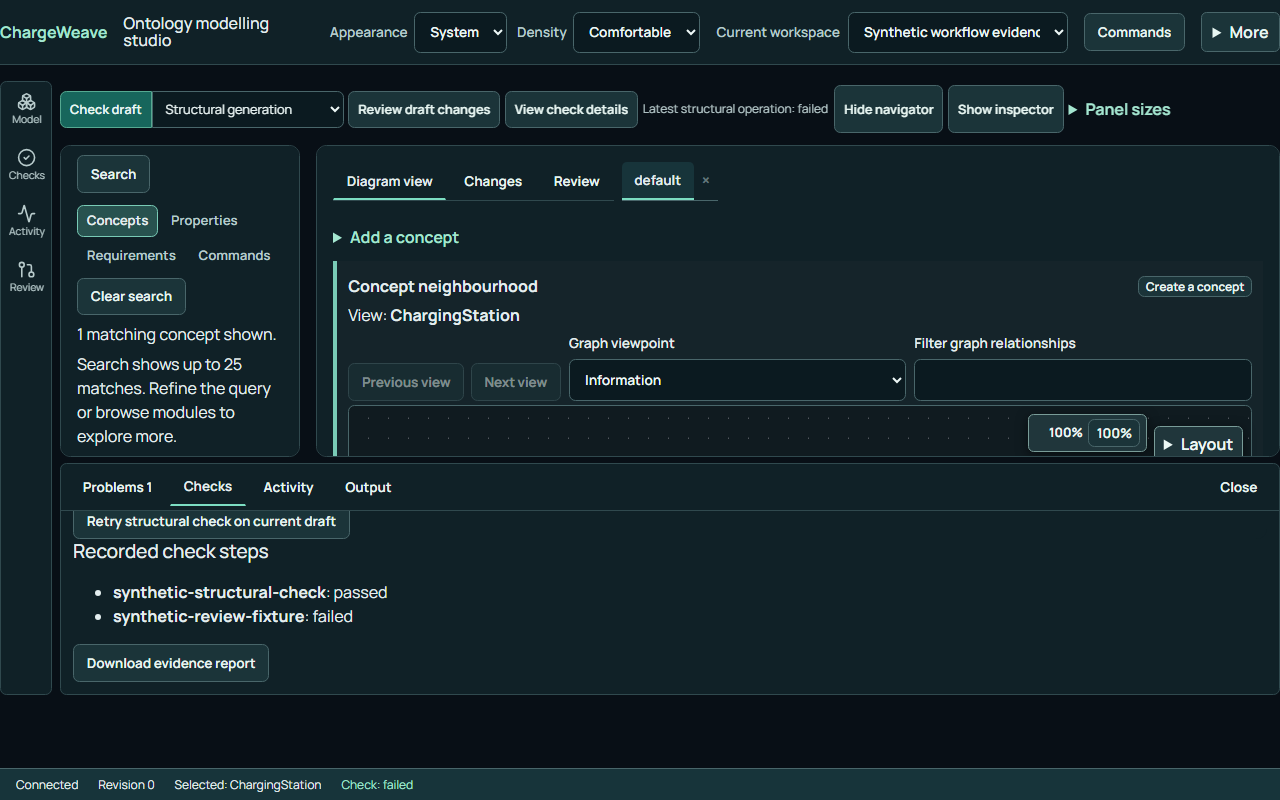
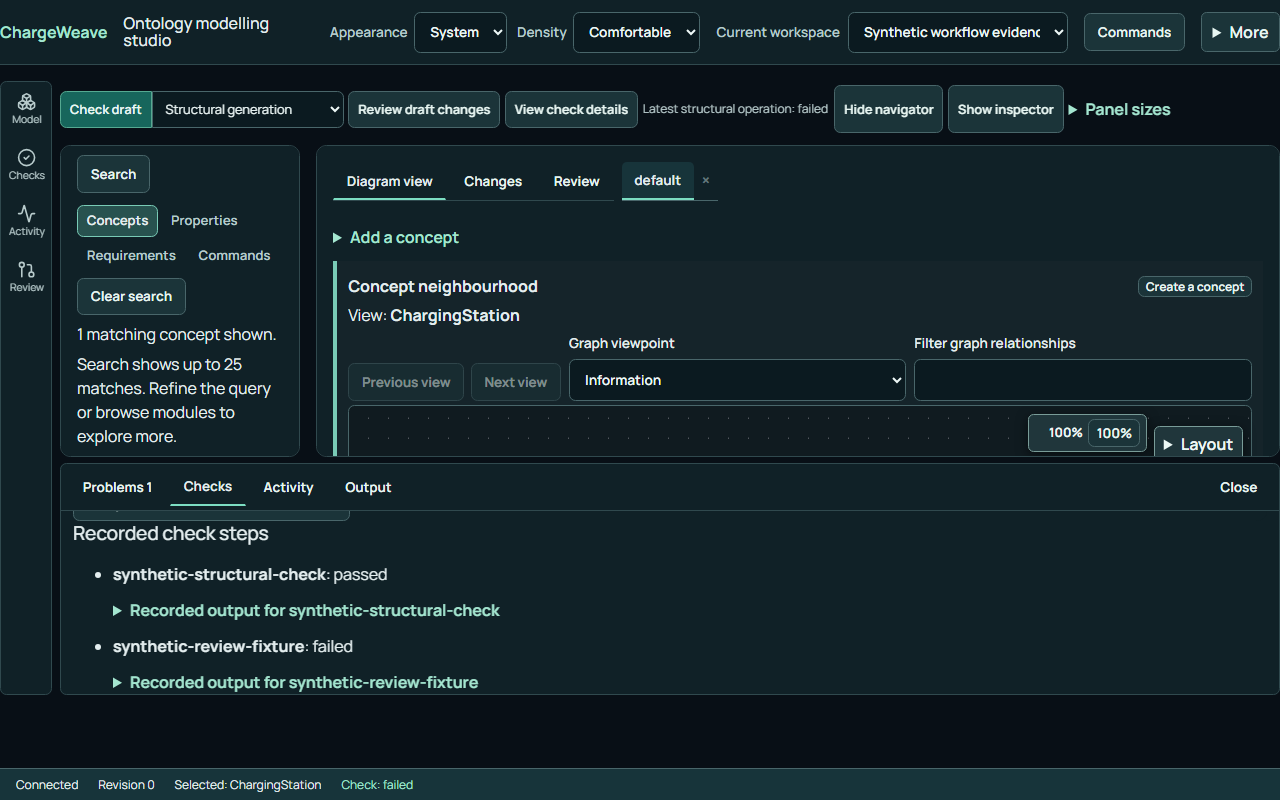
feat: inspect output for recorded check steps
Expose expandable recorded output for every check step, including passes, in the Checks results panel. Reuse the keyboard-scrollable output region and verify the synthetic pass in the desktop and compact first-time journey. The website build passes; the exact focused workflow selection passes locally (desktop 4 passed, 1 project skip; mobile 5 passed). Capture overview and expanded-output screenshots in light and dark themes from an in-memory synthetic workspace, document their provenance, and record current exact-SHA CI states without treating pending workflows as passes.

Changed region(s): [[0.0625, 0.625, 0.4062, 0.875]]

diff --git a/website/src/WorkspaceDock.jsx b/website/src/WorkspaceDock.jsx
@@ -91,7 +91,7 @@ export default function WorkspaceDock({ panel, onPanelChange, height, heightLimi
       </section>
       <div hidden={panel !== 'checks'}>
         <ValidationIssues job={validationJob} snapshot={snapshot} onRetry={onRetry} onFocusConcept={onFocusConcept} onFocusIssue={onFocusIssue} disabled={disabled} />
-        {validationJob?.steps?.length > 0 && <section aria-label="Recorded check steps"><h2>Recorded check steps</h2><ul>{validationJob.steps.map(step => <li key={step.ordinal}><strong>{step.checkName}</strong>: {step.status}</li>)}</ul></section>}
+        {validationJob?.steps?.length > 0 && <section aria-label="Recorded check steps"><h2>Recorded check steps</h2><ul>{validationJob.steps.map(step => <li key={step.ordinal}><strong>{step.checkName}</strong>: {step.status}<details><summary>Recorded output for {step.checkName}</summary><StudioScrollableText label={`Recorded step output: ${step.checkName}`}>{step.output || 'No output was recorded for this step.'}</StudioScrollableText></details></li>)}</ul></section>}
         {terminal && validationJob && <button type="button" onClick={onDownloadEvidence}>Download evidence report</button>}
       </div>
       {panel === 'activity' && <section aria-label="Recent activity">

diff --git a/website/tests/studio-first-time-journey.spec.js b/website/tests/studio-first-time-journey.spec.js
@@ -79,6 +79,8 @@ test('first-time modeller can discover, edit, check, and review a synthetic mode
     }
     await expect(page.getByRole('region', { name: 'Validation issues' }).getByText('No failed steps in this job. Other required checks may still be missing.')).toBeVisible();
     await expect(page.getByRole('region', { name: 'Results content' }).getByRole('region', { name: 'Recorded check steps' })).toContainText('synthetic-structural-check: passed');
+    await page.getByText('Recorded output for synthetic-structural-check', { exact: true }).click();
+    await expect(page.getByRole('region', { name: 'Recorded step output: synthetic-structural-check' })).toContainText('Synthetic fixture check passed.');
 
     if (isMobile) await page.getByRole('navigation', { name: 'Workspace sections' }).getByRole('button', { name: 'Diagram' }).click();
     await page.getByRole('button', { name: 'Inspect changes' }).click();

diff --git a/docs/ontology-modelling-ide-ux-status.md b/docs/ontology-modelling-ide-ux-status.md
@@ -230,3 +230,7 @@ The capability migration checklist in the plan now links each destination to con
 The compact Checks panel now displays the complete recorded validation step list, including passed steps, alongside failure details. The first-time modelling journey now navigates into Checks on desktop and compact layouts and asserts that the synthetic passing check is visible there. After rebuilding the production assets used by the test server, the focused Playwright journey passed on desktop and mobile (two passed). This verifies the local UI path with a deterministic synthetic check; current-SHA GitHub workflows and independent human usability acceptance remain pending.
 
 For exact commit `e4c1f6246e25b38f7fbfdef1addb3b0abe60ed27`, GitHub's [Focused modelling matrix](https://github.com/pli-poc/charge-weave/actions/runs/41835946970) failed in desktop and mobile because the new recorded-step list made an older page-wide Playwright text locator ambiguous. The reported failure artifacts require authenticated access and could not be read here. Reproducing the workflow's exact Playwright selection locally identified the same strict-mode failure; scoping the assertion to `#studio-diagram-document` fixed it. The focused desktop selection then passed (four passed, one project-specific skip), and mobile passed (five passed). This fix and refreshed synthetic Checks captures are in the follow-up working tree; GitHub verification requires the follow-up commit. At the time of this note, exact-SHA Ontology authoring, Ontology CI and Website runs for e4c1f62 were still pending/in progress.
+
+On exact commit `153e496d1a301105fb10c029f61b8f285254e6e2`, the [Focused modelling matrix](https://github.com/pli-poc/charge-weave/actions/runs/41836864987) completed successfully across desktop, mobile and both MCP/workspace backends. When last observed, [Ontology authoring](https://github.com/pli-poc/charge-weave/actions/runs/41836865005) and [Website / Public App Deployment](https://github.com/pli-poc/charge-weave/actions/runs/41836864973) were in progress, while [Ontology CI](https://github.com/pli-poc/charge-weave/actions/runs/41836865070) was queued. GitHub's unauthenticated API rate limit was reached during polling; these outcomes are not marked as passed. The next commit adds expandable per-step output, its desktop/mobile journey assertions, and updated screenshots; exact-SHA verification is required for that commit.
+
+The Checks step list now lets a modeller expand the output recorded for each step, including passing steps; long text uses the existing keyboard-scrollable output region. The first-time journey expands the passing synthetic step and verifies its output on desktop and compact layouts. The website production build passes locally. The workflow-equivalent Playwright selection also passes on the latest tree: desktop four passed with one project-specific skip; mobile five passed. `checks-output-1280-light.png` and `checks-output-1280-dark.png` show this output state. Independent human usability acceptance remains open.

diff --git a/evidence/ontology-studio/ide/README.md b/evidence/ontology-studio/ide/README.md
@@ -21,3 +21,7 @@ These captures are partial visual evidence, not acceptance: other required scena
 The `workbench-viewport` captures show the current fixed-shell modelling workbench in an isolated synthetic workspace at 1440×1000 and 390×844. They were refreshed from the working tree based on commit `360e984b4f9219b68fb54a6c7095a7690d35aaaa` on 2026-11-03 with headless Chromium 153. Desktop panes remain within the viewport; the explorer and inspector scroll independently, and the results dock stays at the bottom. Draft context, history and connection diagnostics are reached from the app bar's More menu and only open on demand. Reproduce from the repository root with `node website/scripts/capture-ide-evidence.mjs` after building and setting `PLAYWRIGHT_BROWSERS_PATH` to a local Playwright browser installation. This iteration still needs the remaining visual, accessibility and independent human usability acceptance from the IDE plan.
 
 The `checks-1280-light.png` and `checks-1280-dark.png` captures show the Checks panel with a distinct passing structural step and a separate failing synthetic review step. They were captured with Chromium 153 on 2026-11-04 from implementation commit `e4c1f6246e25b38f7fbfdef1addb3b0abe60ed27`, using the updated `website/scripts/capture-studio-workflows.mjs` working tree and an in-memory workspace. The results panel is scrolled to show the full recorded-step list. These images document synthetic UI state; they do not represent a real model validation outcome.
+
+A follow-up capture on 2026-11-04 from implementation commit `153e496d1a301105fb10c029f61b8f285254e6e2` supersedes the earlier Checks screenshots. The refreshed `checks-1280-light.png` and `checks-1280-dark.png` align the full recorded-step list in view; `checks-output-1280-light.png` and `checks-output-1280-dark.png` show the expanded output for the passing structural step. All use Chromium 153 and the same isolated in-memory synthetic workspace. The capture script now reports 12 screenshots for the complete workflow capture.
+
+The expanded-output captures use Chromium 153 at 1280×800 and the same isolated in-memory fixture as the Checks overview. They show the passing step's recorded output in the keyboard-scrollable region. The overview images show the recorded step names and statuses without expanded output. Both pairs are synthetic evidence, not validation of the repository ontology.
